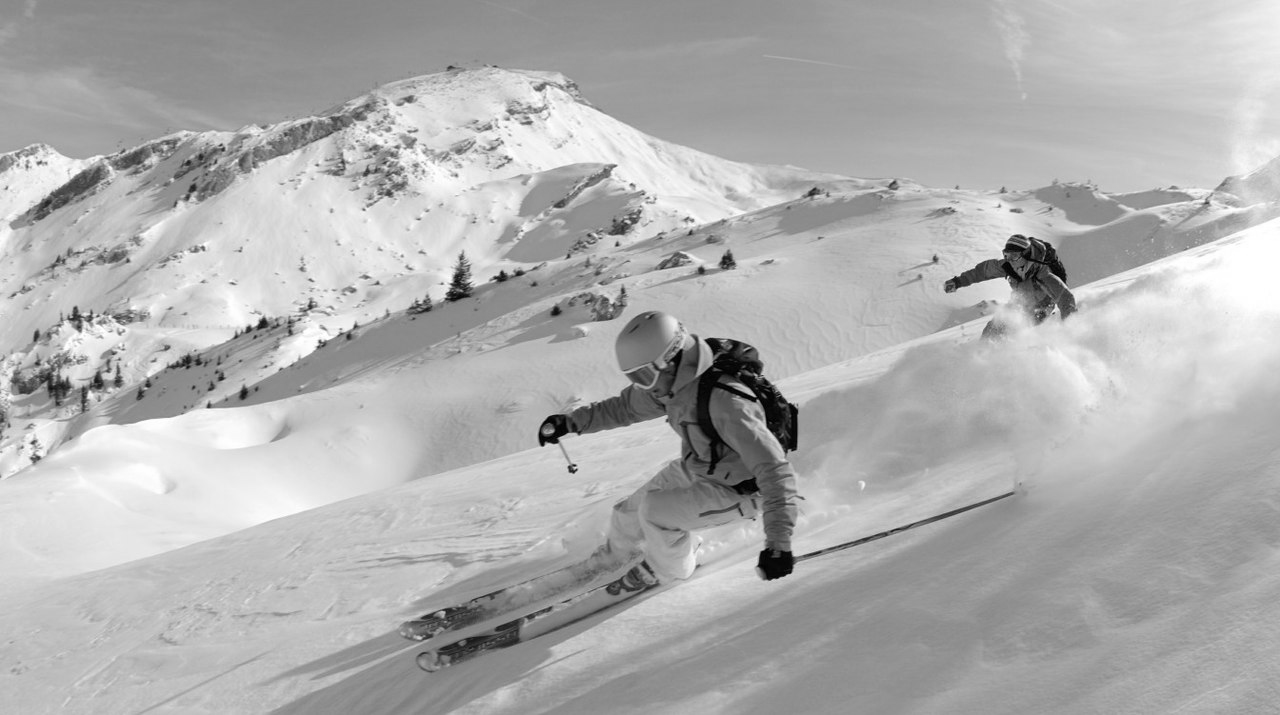
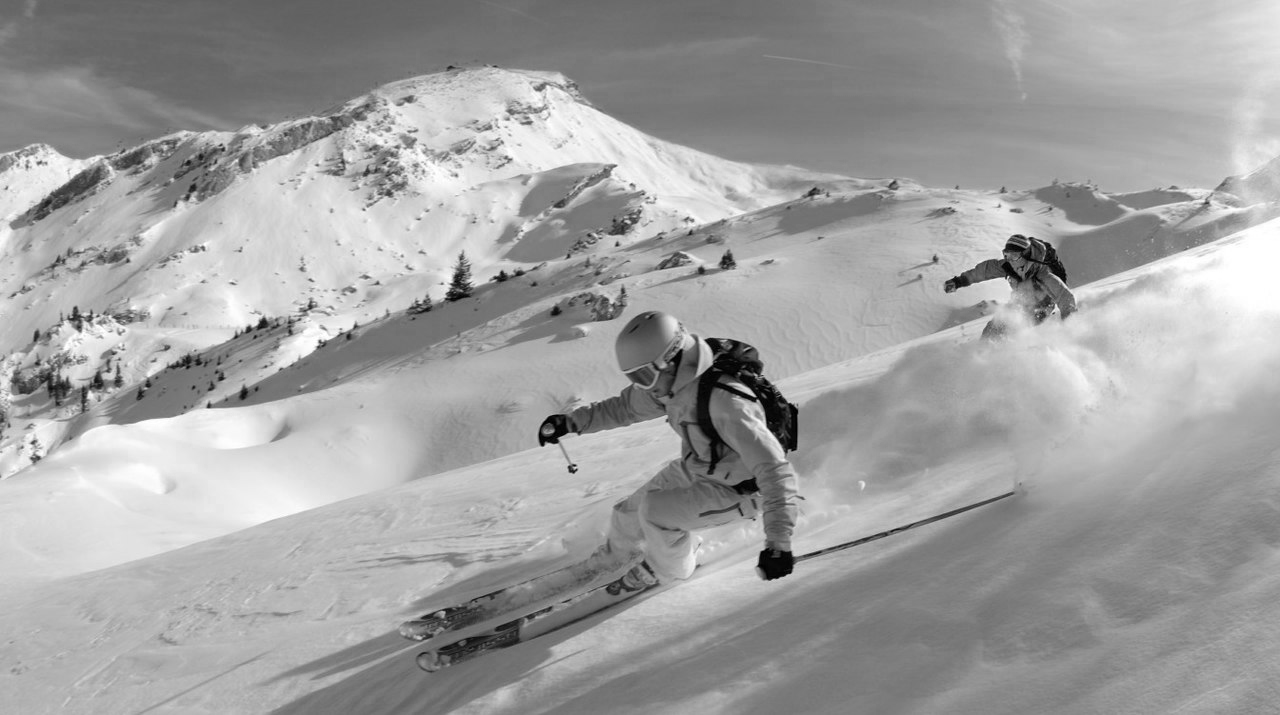
CEA

diff --git a/demo_matrix.py b/demo_matrix.py
@@ -1,0 +1,45 @@
+import numpy as np
+
+mat23 = np.array([[1,2,3],[4,5,6]])
+mat22 = np.array([[1,2],[3,4]])
+v3 = np.array([1,2,3])
+print(mat23 * v3)
+mat13 = np.array([[1,2,3]])
+print(mat13)
+mat31 = mat13.T
+print(mat31)
+print(mat23.size, mat23.shape)
+print(mat13.shape, mat31.shape)
+
+v12 = np.arange(12)
+print(v12)
+m34 = v12.reshape(3,-1)
+print(m34)
+m43 = v12.reshape(-1, 3)
+print(m43)
+c232 = v12.reshape(2, 3, 2)
+print(c232)
+mat121 = v12.reshape(12,1)
+print(mat121)
+v12 = m34.reshape(-1)
+print(v12)
+
+vinf = np.array([1,2,3,np.inf,5])
+print(vinf * 2)
+vnan = np.array([1,2,np.nan,4])
+print(np.mean(vnan))
+print(np.nanmean(vnan))
+
+print(mat23)
+print(np.sum(mat23))
+print(np.sum(mat23, axis=0))
+print(np.sum(mat23, axis=1))
+
+# def affine(x):
+#     return 2 * x + 3
+
+affine = lambda x: 2 * x + 3
+
+print(affine(v12))
+print(v12 * 2 + 3)
+

diff --git a/tp_image.py b/tp_image.py
@@ -1,0 +1,27 @@
+from PIL import Image
+import numpy as np
+
+im = Image.open("data/ski.jpg")
+array = np.asarray(im).astype(np.float64)
+print(array.shape, array.dtype)
+
+luminance = np.mean(array)
+print(luminance)
+
+red = array[:,:,0]
+print(red.shape)
+
+# Mettre en fonction, bonus en class
+# class MyImage
+# load, save, get_chanel, luminance, contrast
+# crop(10)
+# reduce(4) => prendre une colonne sur 2 et une ligne sur 2
+# grey => transforme n&b
+# negative 255 -
+# profileH et V
+# Bonus : normaliser l'image
+# np.clip((x - mean) / std) * 255/4 + 255/2,0 ,255)
+
+
+dest = Image.fromarray(red.astype(np.uint8)).convert("RGB")
+dest.save("data/out.png")

diff --git a/tp_numpy.py b/tp_numpy.py
@@ -1,4 +1,5 @@
 import numpy as np
+import matplotlib.pyplot as plt
 
 data = np.load("data/house/house.npz")
 print(data)
@@ -16,4 +17,9 @@ filter = surfaces > 200
 print(surfaces[filter])
 print(loyers[filter])
 
-# Afficher le scatter surfaces vs loyers
+filter2 = surfaces < 180
+plt.title("Surface / Loyer")
+plt.grid()
+plt.plot(surfaces[filter2], loyers[filter2], "rx", label="loyer")
+plt.legend()
+plt.show()
